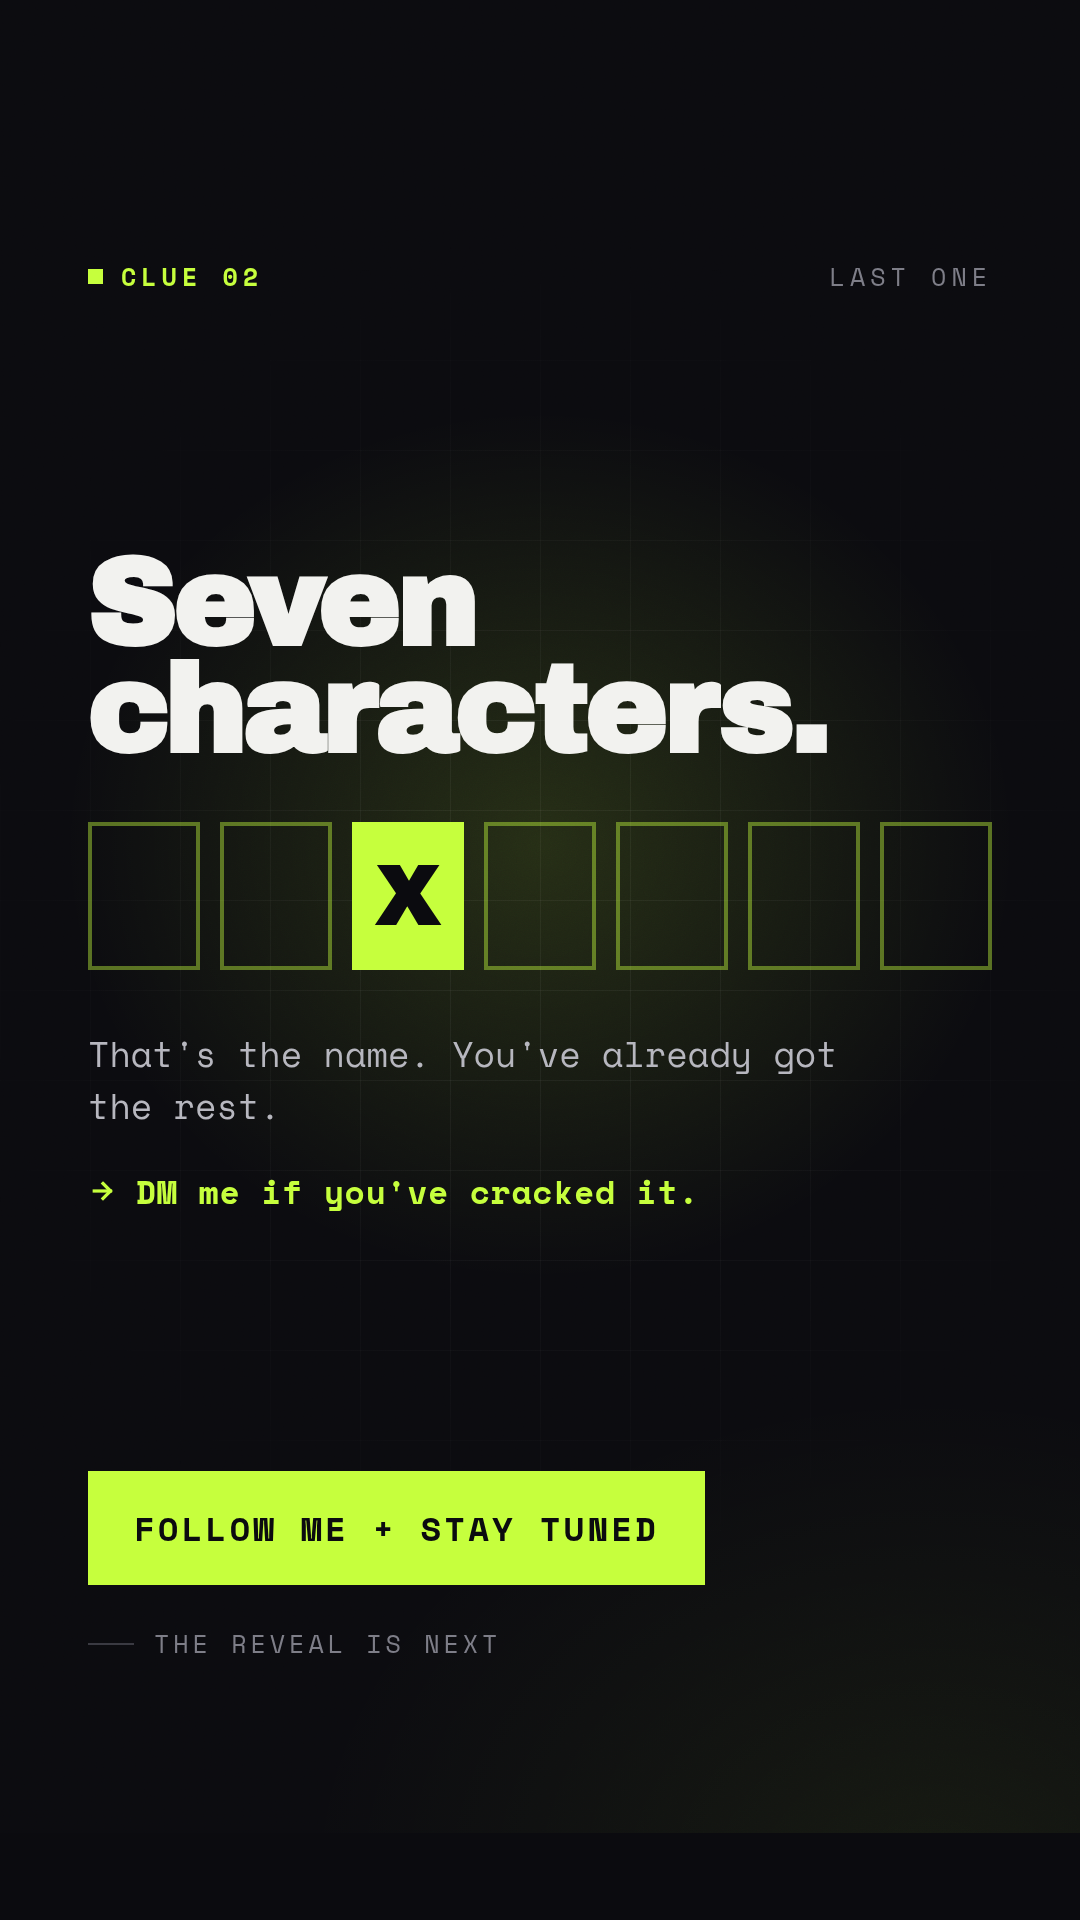
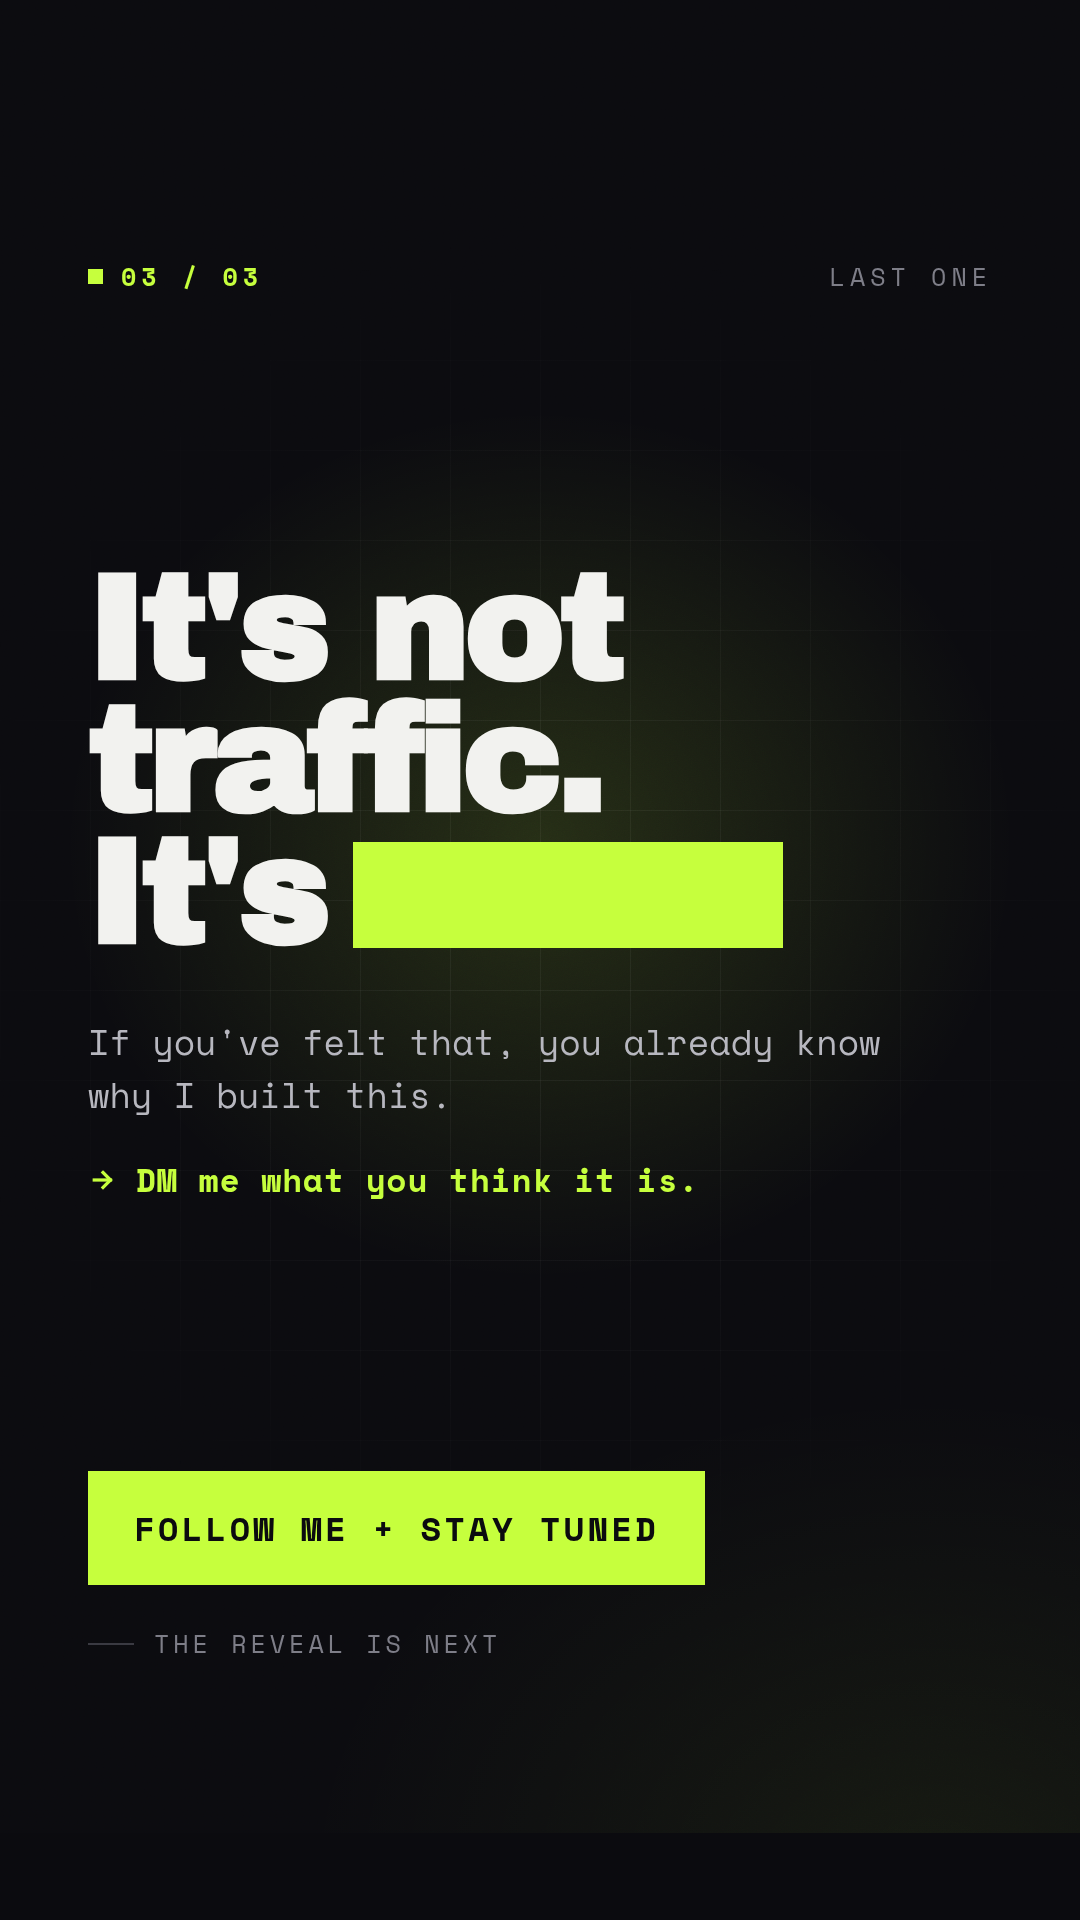
design: replace the name puzzle in story 03 with a tension hook
"Seven characters" asked viewers to guess a name they had never heard, which
carries no stakes - solving it wins nothing, so it does not generate curiosity.

Story 03 now reads "It's not traffic. It's [redacted]": a claim about the
viewer's own business with the answer withheld, reusing the sequence's
redaction device. The gap is something they already care about.

Also number the three topbars 01 / 03 through 03 / 03, so the sequence
announces its own length and gives people a reason to look for the next one.

Claude-Session: https://claude.ai/code/session_01JScjDvyAFXuwqeNj6asjp6

diff --git a/design/10xecom-ig-story/src/LastClue.dc.html b/design/10xecom-ig-story/src/LastClue.dc.html
@@ -11,14 +11,10 @@
     /*FONTS*/
 /*BASE*/
     .head { font-family: 'Archivo Black', 'Arial Black', Impact, sans-serif;
-      font-size: 124px; line-height: 0.86; letter-spacing: -0.03em; margin: 0; color: #F2F2EF; }
+      font-size: 150px; line-height: 0.88; letter-spacing: -0.035em; margin: 0; color: #F2F2EF; }
     .head span { display: block; }
-    .slots { display: flex; gap: 20px; margin-top: 58px; }
-    .slot { width: 112px; height: 148px; box-sizing: border-box;
-      border: 4px solid rgba(198,255,61,0.42); }
-    .slot.on { border-color: #C6FF3D; background: #C6FF3D; color: #0B0B0F;
-      display: flex; align-items: center; justify-content: center;
-      font-family: 'Archivo Black', 'Arial Black', Impact, sans-serif; font-size: 86px; }
+    .rb { display: inline-block; width: 430px; height: 106px;
+      background: #C6FF3D; margin-left: 28px; vertical-align: -0.04em; }
   </style>
 </helmet>
 <div class="story">
@@ -28,28 +24,23 @@
   <div class="inner">
 
     <div class="topbar">
-      <div class="tag"><span class="dot"></span><span>Clue 02</span></div>
+      <div class="tag"><span class="dot"></span><span>03 / 03</span></div>
       <div class="topright">Last one</div>
     </div>
 
     <div>
-      <h1 class="head"><span>Seven</span><span>characters.</span></h1>
-      <div class="slots">
-        <div class="slot"></div>
-        <div class="slot"></div>
-        <div class="slot on">X</div>
-        <div class="slot"></div>
-        <div class="slot"></div>
-        <div class="slot"></div>
-        <div class="slot"></div>
-      </div>
-      <p class="say">That's the name. You've already got the rest.</p>
+      <h1 class="head">
+        <span>It's not</span>
+        <span>traffic.</span>
+        <span>It's<i class="rb"></i></span>
+      </h1>
+      <p class="say">If you've felt that, you already know why I built this.</p>
       <p class="guess">
         <svg width="30" height="30" viewBox="0 0 24 24" fill="none" stroke="#C6FF3D" stroke-width="2.6" stroke-linecap="square" stroke-linejoin="miter" aria-hidden="true">
           <path d="M5 12h13"></path>
           <path d="M12 6l6 6-6 6"></path>
         </svg>
-        <span>DM me if you've cracked it.</span>
+        <span>DM me what you think it is.</span>
       </p>
     </div>
 

diff --git a/design/10xecom-ig-story/src/Main.dc.html b/design/10xecom-ig-story/src/Main.dc.html
@@ -27,8 +27,8 @@
   <div class="inner">
 
     <div class="topbar">
-      <div class="tag"><span class="dot"></span><span>Coming soon</span></div>
-      <div class="topright">No spoilers</div>
+      <div class="tag"><span class="dot"></span><span>01 / 03</span></div>
+      <div class="topright">Coming soon</div>
     </div>
 
     <div>

diff --git a/design/10xecom-ig-story/src/Clue.dc.html b/design/10xecom-ig-story/src/Clue.dc.html
@@ -22,7 +22,7 @@
   <div class="inner">
 
     <div class="topbar">
-      <div class="tag"><span class="dot"></span><span>Clue 01</span></div>
+      <div class="tag"><span class="dot"></span><span>02 / 03</span></div>
       <div class="topright">Still not telling</div>
     </div>
 

diff --git a/design/10xecom-ig-story/README.md b/design/10xecom-ig-story/README.md
@@ -6,13 +6,17 @@ acid `#C6FF3D` accent, Archivo Black display + Space Mono.
 
 | # | File | Device |
 | --- | --- | --- |
-| 1 | `src/Main.dc.html` | Redaction bars: "I've been building ███ █████" |
-| 2 | `src/Clue.dc.html` | `AOV / CAC / LTV` — an audience filter, not a description |
-| 3 | `src/LastClue.dc.html` | Seven blank characters, `X` shown in slot 3 |
+| 01 | `src/Main.dc.html` | Redaction bars: "I've been building ███ █████" |
+| 02 | `src/Clue.dc.html` | `AOV / CAC / LTV` — an audience filter, not a description |
+| 03 | `src/LastClue.dc.html` | "It's not traffic. It's ███████." |
 
-The clues are honest: slot 3 of `10XECOM` really is `X`. Clue 2 narrows the
-audience without naming the category — operators recognise the three metrics,
-nobody else does.
+Each opens on an `01 / 03` counter, so the sequence announces its own length.
+
+The curiosity is about the viewer's business, not about the product's name —
+a name nobody has heard yet carries no stakes, so there is no name puzzle.
+Story 02 narrows the audience without naming the category: operators recognise
+the three metrics, nobody else does. Story 03 states a tension they already
+feel and redacts the answer.
 
 CTA on all three is `Follow me + stay tuned` (personal profile, not a brand
 page), with a reply/DM prompt to pull story replies into DMs.
